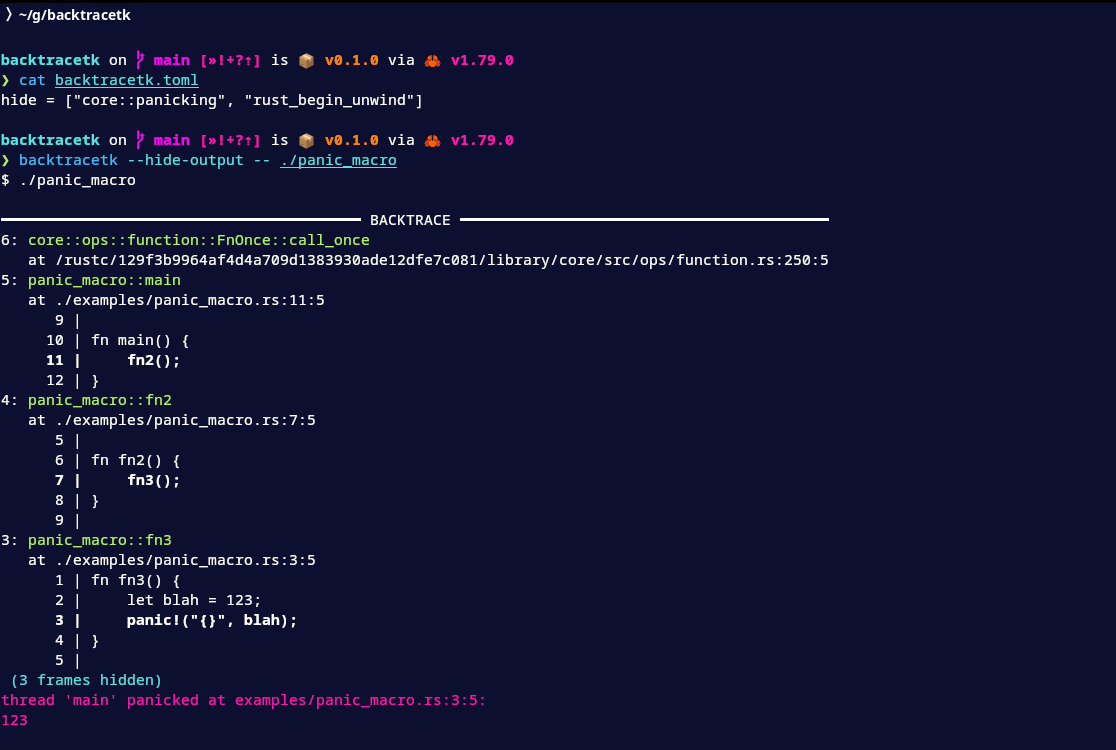
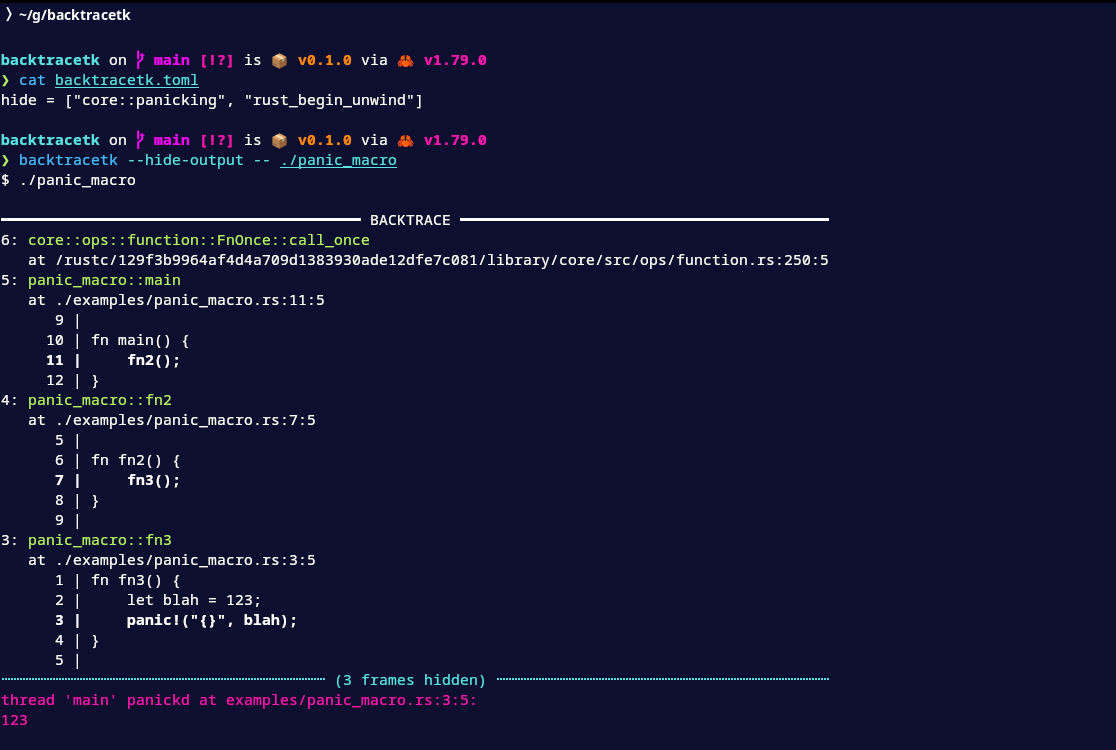
Move to anstream/anstyle + set CLICOLOR_FORCE=1

diff --git a/src/lib.rs b/src/lib.rs
@@ -1,11 +1,19 @@
 use std::{
     fs::File,
-    io::{self, BufRead, Write},
+    io::{self, BufRead},
     path::Path,
 };
 
 use regex::Regex;
-use termcolor::{Color, ColorSpec, StandardStream, WriteColor};
+
+const GREEN: anstyle::Style =
+    anstyle::Style::new().fg_color(Some(anstyle::Color::Ansi(anstyle::AnsiColor::Green)));
+const CYAN: anstyle::Style =
+    anstyle::Style::new().fg_color(Some(anstyle::Color::Ansi(anstyle::AnsiColor::Cyan)));
+const RED: anstyle::Style =
+    anstyle::Style::new().fg_color(Some(anstyle::Color::Ansi(anstyle::AnsiColor::Red)));
+const BOLD: anstyle::Style = anstyle::Style::new().bold();
+const RESET: anstyle::Reset = anstyle::Reset;
 
 pub struct Backtrace {
     frames: Vec<Frame>,
@@ -13,32 +21,33 @@ pub struct Backtrace {
 }
 
 impl Backtrace {
-    pub fn render(&self, out: &mut StandardStream, filter: &mut impl Filter) -> io::Result<()> {
+    pub fn render(&self, filter: &mut impl Filter) -> io::Result<()> {
         if self.frames.is_empty() {
             return Ok(());
         }
         let framnow = self.compute_frameno_width();
         let linenow = self.compute_lineno_width();
         let width = self.compute_width(framnow);
-        writeln!(out, "\n{:━^width$}", " BACKTRACE ")?;
+        anstream::println!("\n{:━^width$}", " BACKTRACE ");
 
         let mut hidden = 0;
         for frame in self.frames.iter().rev() {
             if filter.exclude(frame) {
                 hidden += 1;
             } else {
-                print_hidden_frames_message(out, hidden)?;
-                frame.render(out, framnow, linenow)?;
+                print_hidden_frames_message(hidden, width)?;
+                frame.render(framnow, linenow)?;
                 hidden = 0;
             }
         }
-        print_hidden_frames_message(out, hidden)?;
+        print_hidden_frames_message(hidden, width)?;
 
         if let Some(panic_info) = &self.panic_info {
-            panic_info.render(out)?;
+            panic_info.render()?;
         }
 
-        writeln!(out)
+        println!();
+        Ok(())
     }
 
     fn compute_lineno_width(&self) -> usize {
@@ -81,15 +90,17 @@ pub struct Frame {
 }
 
 impl Frame {
-    fn render(&self, out: &mut StandardStream, framenow: usize, linenow: usize) -> io::Result<()> {
-        write!(out, "{:>framenow$}: ", self.frameno)?;
-
-        out.set_color(ColorSpec::new().set_fg(Some(Color::Green)))?;
-        writeln!(out, "{}", self.function)?;
-        out.set_color(&ColorSpec::new())?;
+    fn render(&self, framenow: usize, linenow: usize) -> io::Result<()> {
+        anstream::println!(
+            "{:>framenow$}: {GREEN}{}{RESET}",
+            self.frameno,
+            self.function
+        );
 
         if let Some(source_info) = &self.source_info {
-            source_info.render(out, framenow, linenow)?;
+            let padding = Padding(framenow);
+            anstream::println!("{padding}  at {source_info}");
+            source_info.render_code(padding, linenow)?;
         }
         Ok(())
     }
@@ -111,34 +122,18 @@ pub struct SourceInfo {
     colno: usize,
 }
 
-fn print_hidden_frames_message(out: &mut StandardStream, hidden: u32) -> io::Result<()> {
-    out.set_color(ColorSpec::new().set_fg(Some(Color::Cyan)))?;
-    match hidden {
-        0 => {}
-        1 => {
-            writeln!(out, " ({hidden} frame hidden)")?;
-        }
-        _ => {
-            writeln!(out, " ({hidden} frames hidden)")?;
-        }
-    }
-    out.set_color(&ColorSpec::new())
+fn print_hidden_frames_message(hidden: u32, width: usize) -> io::Result<()> {
+    let msg = match hidden {
+        0 => return Ok(()),
+        1 => format!(" ({hidden} frame hidden) "),
+        _ => format!(" ({hidden} frames hidden) "),
+    };
+    anstream::println!("{CYAN}{msg:┄^width$}{RESET}");
+    Ok(())
 }
 
 impl SourceInfo {
-    fn render(&self, out: &mut StandardStream, framenow: usize, linenow: usize) -> io::Result<()> {
-        write!(out, "{:framenow$}  at ", "")?;
-        writeln!(out, "{self}")?;
-        self.render_code(out, framenow, linenow)?;
-        Ok(())
-    }
-
-    fn render_code(
-        &self,
-        out: &mut StandardStream,
-        framenow: usize,
-        linenow: usize,
-    ) -> io::Result<()> {
+    fn render_code(&self, padding: Padding, linenow: usize) -> io::Result<()> {
         let path = Path::new(&self.file);
         if path.exists() {
             let lineno = self.lineno - 1;
@@ -150,15 +145,13 @@ impl SourceInfo {
                 .skip(lineno.saturating_sub(2))
                 .take(5)
                 .collect();
-
             for (i, line) in viewport {
                 if i == lineno {
-                    out.set_color(ColorSpec::new().set_bold(true))?;
+                    anstream::print!("{BOLD}");
                 }
-                write!(out, "{:framenow$}    {:>linenow$} | ", "", i + 1)?;
-                writeln!(out, "{}", line?)?;
+                anstream::println!("{padding}    {:>linenow$} | {}", i + 1, line?);
                 if i == lineno {
-                    out.set_color(ColorSpec::new().set_bold(false))?;
+                    anstream::print!("{RESET}");
                 }
             }
         }
@@ -178,13 +171,24 @@ impl std::fmt::Display for SourceInfo {
 }
 
 impl PanicInfo {
-    fn render(&self, out: &mut StandardStream) -> io::Result<()> {
-        out.set_color(ColorSpec::new().set_fg(Some(Color::Red)))?;
-        writeln!(out, "thread '{}' panicked at {}", self.thread, self.at)?;
+    fn render(&self) -> io::Result<()> {
+        anstream::print!("{RED}");
+        anstream::println!("thread '{}' panickd at {}", self.thread, self.at);
         for line in &self.message {
-            writeln!(out, "{}", line)?;
+            anstream::println!("{line}");
         }
-        out.set_color(&ColorSpec::new())?;
+        anstream::print!("{RESET}");
+        Ok(())
+    }
+}
+
+struct Padding(usize);
+
+impl std::fmt::Display for Padding {
+    fn fmt(&self, f: &mut std::fmt::Formatter<'_>) -> std::fmt::Result {
+        for _ in 0..self.0 {
+            write!(f, " ")?;
+        }
         Ok(())
     }
 }

diff --git a/src/main.rs b/src/main.rs
@@ -6,22 +6,27 @@ use backtracetk::Frame;
 use clap::Parser;
 use regex::Regex;
 use serde::Deserialize;
-use termcolor::{ColorChoice, StandardStream};
 
 /// Print colorized Rust backtraces by capturing the output of an external process.
 #[derive(clap::Parser)]
-#[command(max_term_width = 110)]
+#[command(max_term_width = 110, arg_required_else_help = true)]
 struct Args {
     #[arg(trailing_var_arg(true))]
     cmd: Vec<String>,
 
-    /// Set the backtrace style to short (RUST_BACKTRACE=1) or full (RUST_BACKTRACE=full)
+    /// Set the backtrace style to `short` (RUST_BACKTRACE=1) or `full` (RUST_BACKTRACE=full)
     #[arg(long, default_value = "short")]
     style: BacktraceStyle,
 
-    /// By default, backtracetk sets RUST_LIB_BACKTRACE=0. Set this flag to revert this behavior
-    #[arg(long)]
-    enable_lib_backtrace: bool,
+    /// Enable or disable `Backtrace::capture`. If this flag is set to `no`, backtracetk sets
+    /// RUST_LIB_BACKTRACE=0, disabling `Backtrace::capture`. If the flag is set to `yes`, no
+    /// changes are made, and the default behavior of capturing backtraces remains enabled.
+    #[arg(long, default_value = "no")]
+    lib_backtrace: YesNo,
+
+    /// If this flag is `yes`, set CLICOLOR_FORCE=1. If the flag is `no`, no changes are made.
+    #[arg(long, default_value = "yes")]
+    clicolor_force: YesNo,
 
     /// By default, backtracetk prints each captured line as it reads it, providing immediate feedback.
     /// If this flag is set, this output is suppressed, and nothing will be printed until the program
@@ -36,6 +41,22 @@ enum BacktraceStyle {
     Full,
 }
 
+#[derive(clap::ValueEnum, Copy, Clone, Debug)]
+enum YesNo {
+    Yes,
+    No,
+}
+
+impl YesNo {
+    fn is_yes(&self) -> bool {
+        matches!(self, Self::Yes)
+    }
+
+    fn is_no(&self) -> bool {
+        matches!(self, Self::No)
+    }
+}
+
 impl BacktraceStyle {
     fn env_var_str(&self) -> &'static str {
         match self {
@@ -47,15 +68,14 @@ impl BacktraceStyle {
 fn main() -> io::Result<()> {
     let mut args = Args::parse();
 
-    if args.cmd.len() == 0 {
-        std::process::exit(1);
-    }
-
     let config = read_config();
 
     let mut env_vars = vec![("RUST_BACKTRACE", args.style.env_var_str())];
-    if !args.enable_lib_backtrace {
+    if args.lib_backtrace.is_no() {
         env_vars.push(("RUST_LIB_BACKTRACE", "0"));
+    }
+    if args.clicolor_force.is_yes() {
+        env_vars.push(("CLICOLOR_FORCE", "1"));
     }
 
     println!("$ {}", args.cmd.join(" "));
@@ -78,12 +98,10 @@ fn main() -> io::Result<()> {
     for line in BufReader::new(stderr).lines() {
         let line = line?;
         if !args.hide_output {
-            eprintln!("{line}");
+            anstream::eprintln!("{line}");
         }
         parser.parse_line(line);
     }
-
-    let mut stderr = StandardStream::stderr(ColorChoice::Auto);
 
     let mut filter = |frame: &Frame| {
         for regex in &config.hide {
@@ -94,7 +112,7 @@ fn main() -> io::Result<()> {
         false
     };
     for backtrace in parser.into_backtraces() {
-        backtrace.render(&mut stderr, &mut filter)?;
+        backtrace.render(&mut filter)?;
     }
 
     Ok(())
@@ -119,7 +137,6 @@ fn read_config() -> Config {
 }
 
 fn find_config_file() -> Option<std::path::PathBuf> {
-    // find config file in current or parent directories
     let mut path = std::env::current_dir().unwrap();
     loop {
         for name in ["backtracetk.toml", ".backtracetk.toml"] {

diff --git a/README.md b/README.md
@@ -1,10 +1,10 @@
 # Backtracetk
 
-Backtracetk is a command line tool to print colorized Rust backtraces without the need to add extra
-dependencies to your project.
-It works by capturing the output of a process, detecting anything that looks like a backtrace, and then printing
-it with colors to be easier on the eyes.
-It also prints snippets of the code at each frame if it can find them in the file system.
+Backtracetk is a command-line tool that prints colorized Rust backtraces without needing extra dependencies. It works by capturing the output of a process, detecting anything that looks like a backtrace, and then printing it with colors to make it easier on the eyes. It also prints snippets of the code at each frame if it can find them in the filesystem.
+
+Backtracetk is useful in situations where you can't or don't want to add runtime dependencies to your project. It is also more dynamic, allowing you to run the process many times (if it's cheap to do so) and adjust the output accordingly.
+
+If you're okay with adding dependencies, consider looking at [color-eyre](https://crates.io/crates/color-eyre) or [color-backtrace](https://crates.io/crates/color-backtrace).
 
 ## Installation
 
@@ -28,20 +28,24 @@ Arguments:
   [CMD]...
 
 Options:
-      --style <STYLE>         Set the backtrace style to short (RUST_BACKTRACE=1) or full
-                              (RUST_BACKTRACE=full) [default: short] [possible values: short, full]
-      --enable-lib-backtrace  By default, backtracetk sets RUST_LIB_BACKTRACE=0. Set this flag to revert this
-                              behavior
-      --hide-output           By default, backtracetk prints each captured line as it reads it, providing
-                              immediate feedback. If this flag is set, this output is suppressed, and nothing
-                              will be printed until the program exits
-  -h, --help                  Print help
-
+      --style <STYLE>                    Set the backtrace style to `short` (RUST_BACKTRACE=1) or `full`
+                                         (RUST_BACKTRACE=full) [default: short] [possible values: short, full]
+      --lib-backtrace <LIB_BACKTRACE>    Enable or disable `Backtrace::capture`. If this flag is set to `no`,
+                                         backtracetk sets RUST_LIB_BACKTRACE=0, disabling
+                                         `Backtrace::capture`. If the flag is set to `yes`, no changes are
+                                         made, and the default behavior of capturing backtraces remains
+                                         enabled [default: no] [possible values: yes, no]
+      --clicolor-force <CLICOLOR_FORCE>  If this flag is `yes`, set CLICOLOR_FORCE=1. If the flag is `no`, no
+                                         changes are made [default: yes] [possible values: yes, no]
+      --hide-output                      By default, backtracetk prints each captured line as it reads it,
+                                         providing immediate feedback. If this flag is set, this output is
+                                         suppressed, and nothing will be printed until the program exits
+  -h, --help                             Print help
 ```
 
 ### Configuration
 
 Backtracetk will attempt to locate a configuration file named `backtrack.toml` or `.backtrack.toml` in the parent directories starting from where the command is executed. Currently, the only supported configuration is `hide`, which accepts a list of regex patterns.
-Any frame matching on of these patterns will be hidden from the output. For example:
+Any frame matching one of these patterns will be hidden from the output. For example:
 
 ![Screenshot2](./screenshot2.png)
